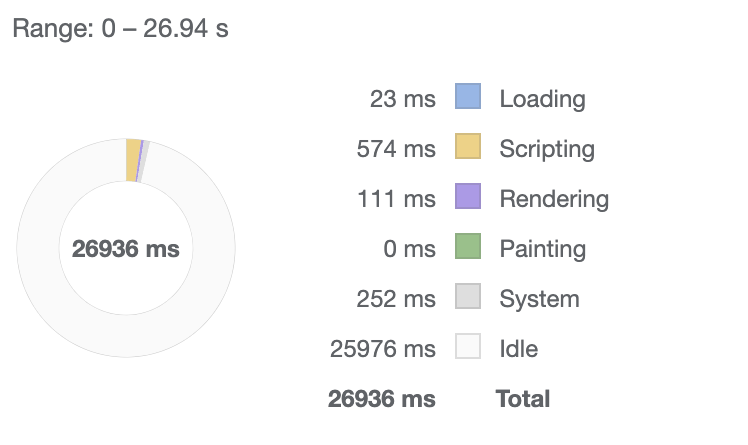
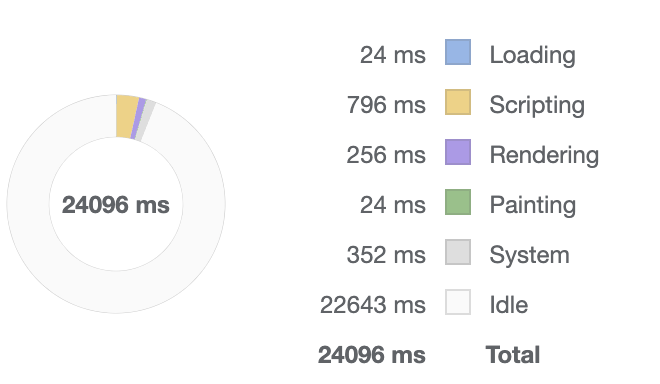
Update README.md

diff --git a/README.md b/README.md
@@ -1,1 +1,43 @@
-# DevTools
+# Использование Chrome DevTools - анализ открытия сайта.
+
+## 1) Network 
+### 1.1) Профиль загрузки ресурсов при открытии страницы - [www.gd.ru.har](https://github.com/VictoriaSko/DevTools/blob/main/Network/www.gd.ru.har)
+
+### 1.2) Неоптимальные места
+** 1.2.1) Дублирование ресурсов**
+
+** 1.2.2) Лишний размер ресурса**
+
+** 1.2.3) Медленно загружающиеся ресурсы**
+
+** 1.2.4) Ресурсы, блокирующие загрузку**
+
+## 2) Performance
+### 2.1) Профиль загрузки страницы - [Trace.json](https://github.com/VictoriaSko/DevTools/blob/main/Performance/Trace-20230613T232829.json)
+
+### 2.2) Время в мс от начала навигации до событий:
+**First Paint - 485.9 ms**
+**First Contentful Paint - 485.9 ms**
+**Largest Contentful Paint - 901.4 ms**
+**DOMContentLoaded Event - 813 ms**
+**Onload Event (Load) - 31159.4 ms**
+
+### 2.3) DOM-элементе, на котором происходит LCP 
+`<img loading="lazy" src="/images/branding/10/imageTop_1628667062.7856.jpg" data-url="/images/branding/10/imageTop_1628667062.7856.jpg" alt="-">`
+
+### 2.4) Времени в миллисекундах, которое тратится на разные этапы обработки документа
+**Loading - 24 ms**
+**Scripting - 796 ms**
+**Rendering - 256 ms**
+**Painting - 24 ms**
+
+![](https://github.com/VictoriaSko/DevTools/blob/main/Performance/Page%20Loading.png)
+
+## 3) Coverage
+### 3.1) Скриншот вкладки после загрузки страницы - [Coverage.png](https://github.com/VictoriaSko/DevTools/blob/main/Coverage/Coverage.png)
+
+### 3.2) Объём неиспользованного CSS в ходе загрузки страницы в килобайтах
+**Unused CSS - 572 kB**
+
+### 3.2) Объём неиспользованного JS в ходе загрузки страницы в килобайтах
+**Unused JS - 2700 kB**
